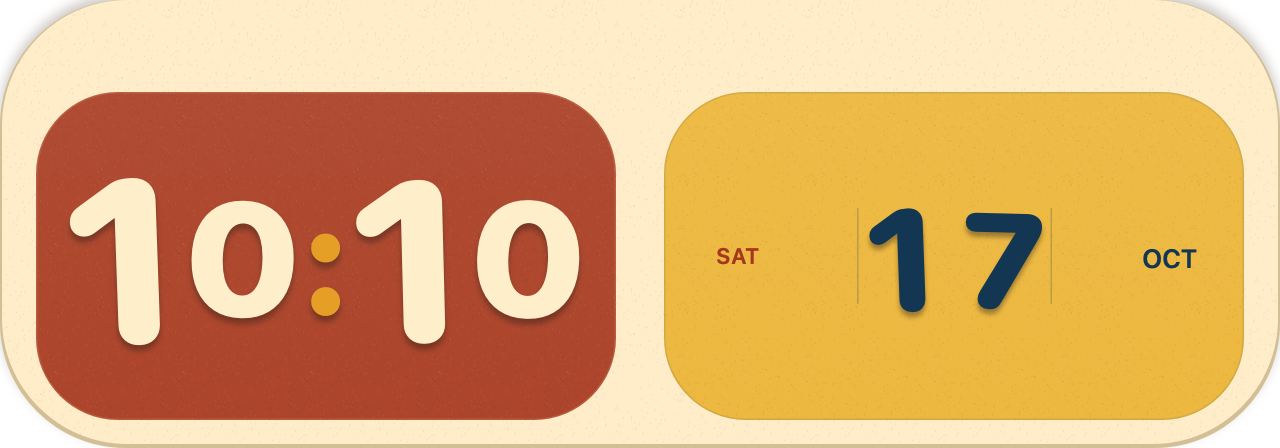
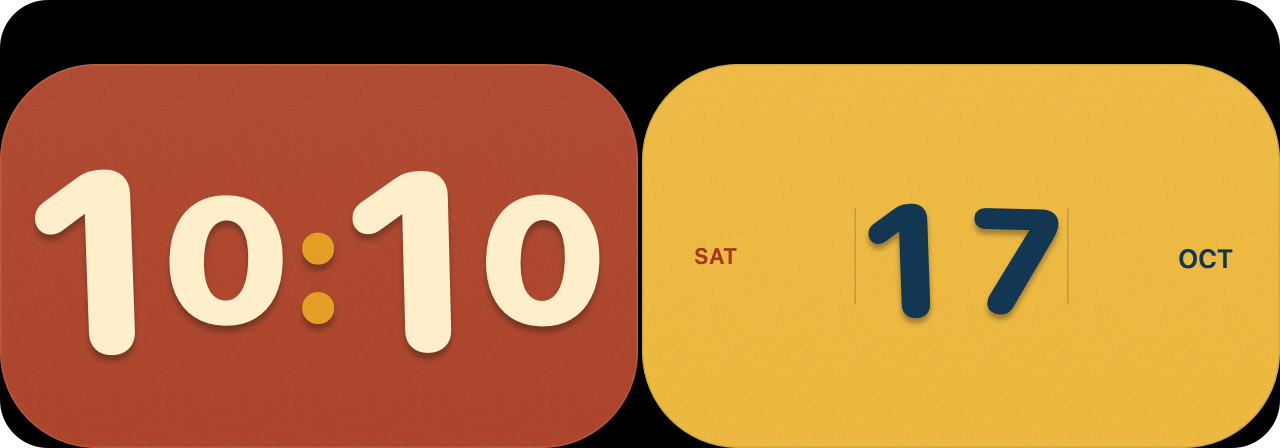
Fix: Fill Paper Cut sides on a black bar background
Remove the unwanted cream surround so component faces occupy their full sides while the notch bridge and bar background remain black.

Key changes include:

- Remove shared-frame component insets and expand faces to their side boundaries.
- Keep bar backgrounds black across themes and align the shared hover outline.
- Update the Paper Cut palette, settings preview, manifest, and native previews.
- Preserve unified hover morphing and the measured camera exclusion band.

diff --git a/Sources/NotchClock/ClockContentView.swift b/Sources/NotchClock/ClockContentView.swift
@@ -128,8 +128,9 @@ final class ClockContentView: NSView {
         let right = NSRect(x: bounds.midX + notchGap / 2 + 2, y: 0, width: 108, height: barHeight)
         let scale = min(1, bounds.width / 640)
         if palette.isPaperCut {
-            clock.frame = mix(left, NSRect(x: 8 * scale, y: barHeight, width: 310 * scale, height: 192), progress)
-            widget.frame = mix(right, NSRect(x: 322 * scale, y: barHeight, width: 310 * scale, height: 192), progress)
+            let compactRight = NSRect(x: bounds.midX + notchGap / 2, y: 0, width: 110, height: barHeight)
+            clock.frame = mix(left, NSRect(x: 0, y: barHeight, width: bounds.width / 2 - 1, height: 192), progress)
+            widget.frame = mix(compactRight, NSRect(x: bounds.midX + 1, y: barHeight, width: bounds.width / 2 - 1, height: 192), progress)
             return
         }
         clock.frame = mix(left, NSRect(x: 32 * scale, y: barHeight + 42,
@@ -149,21 +150,23 @@ final class ClockContentView: NSView {
         if point.y < barHeight && abs(point.x - bounds.midX) < notchGap / 2 { return false }
         if palette.isPaperCut {
             let frame = paperFrame
-            return NSBezierPath(roundedRect: frame, xRadius: frame.height * 0.28, yRadius: frame.height * 0.28).contains(point)
+            return NSBezierPath(roundedRect: frame, xRadius: mix(barHeight / 4, 24, progress), yRadius: mix(barHeight / 4, 24, progress)).contains(point)
         }
         return bounds.contains(point)
     }
 
     override func draw(_ dirtyRect: NSRect) {
         if palette.isPaperCut {
-            drawPaperFrame(in: paperFrame, progress: progress)
+            NSColor.black.setFill()
+            let frame = paperFrame
+            NSBezierPath(roundedRect: frame, xRadius: mix(barHeight / 4, 24, progress), yRadius: mix(barHeight / 4, 24, progress)).fill()
             return
         }
         let radius = min(mix(barHeight / 2, 26, progress), bounds.height / 2)
         // Grow the shell from the notch bridge while the two objects move out into the desk.
         let shell = NSRect(x: mix(bounds.midX - notchGap / 2, 0, progress), y: 0,
                            width: mix(notchGap + 112, bounds.width, progress), height: bounds.height)
-        palette.shell.setFill()
+        NSColor.black.setFill()
         NSBezierPath(roundedRect: shell, xRadius: radius, yRadius: radius).fill()
         NSRect(x: shell.minX, y: 0, width: shell.width, height: min(barHeight, shell.height)).fill()
         drawText("OBJECTS OF TIME", at: NSRect(x: 32, y: barHeight + 14, width: 170, height: 15),

diff --git a/Sources/NotchClock/ThemeDesign.swift b/Sources/NotchClock/ThemeDesign.swift
@@ -34,8 +34,8 @@ struct ThemeDesign: Codable, Equatable, Sendable {
                     text: "F0E1D0", muted: "C3A8BB", clockAccent: "88516E", widgetAccent: "956742"),
         ThemeDesign(id: "counter", name: "Counter objects", shell: "182124", surface: "EFE5CA", ink: "20292B",
                     text: "EFE5CA", muted: "A6AAA3", clockAccent: "C48B36", widgetAccent: "C48B36", family: .counter),
-        ThemeDesign(id: "paper-cut", name: "Paper Cut", shell: "EAE0CE", surface: "BC5938", ink: "FFF1D4",
-                    text: "453D32", muted: "8C7963", clockAccent: "EBAE32", widgetAccent: "EBAE32", family: .wavy,
+        ThemeDesign(id: "paper-cut", name: "Paper Cut", shell: "000000", surface: "BC5938", ink: "FFF1D4",
+                    text: "FFF1D4", muted: "B8A58B", clockAccent: "EBAE32", widgetAccent: "EBAE32", family: .wavy,
                     material: .paperCut, calendarColors: ComponentColors(surface: "F1C34F", ink: "164865"),
                     usageColors: ComponentColors(surface: "164865", ink: "FFF1D4"))
     ]

diff --git a/Sources/NotchClock/ThemeDrawing.swift b/Sources/NotchClock/ThemeDrawing.swift
@@ -79,11 +79,6 @@ private enum PaperGrain {
 }
 
 @MainActor
-func paperBody(in bounds: NSRect, progress: CGFloat) -> NSRect {
-    bounds.insetBy(dx: mix(0.5, 4, progress), dy: mix(0.5, 8, progress))
-}
-
-@MainActor
 func drawPaperFrame(in body: NSRect, progress: CGFloat) {
     let radius = body.height * 0.28
     NSGraphicsContext.saveGraphicsState()
@@ -108,7 +103,7 @@ func drawPaperFrame(in body: NSRect, progress: CGFloat) {
 @MainActor
 func drawPaperHousing(in body: NSRect, palette: ThemePalette, progress: CGFloat, sharedFrame: Bool = false) -> NSRect {
     if !sharedFrame { drawPaperFrame(in: body, progress: progress) }
-    let dial = body.insetBy(dx: mix(2.5, 6, progress), dy: mix(2.5, 6, progress))
+    let dial = sharedFrame ? body : body.insetBy(dx: mix(2.5, 6, progress), dy: mix(2.5, 6, progress))
     let radius = dial.height * 0.25
     let path = NSBezierPath(roundedRect: dial, xRadius: radius, yRadius: radius)
     let highlight = palette.surface.blended(withFraction: 0.04, of: .white) ?? palette.surface

diff --git a/Sources/NotchClock/DigitalClockView.swift b/Sources/NotchClock/DigitalClockView.swift
@@ -15,7 +15,7 @@ final class DigitalClockView: NotchItemView {
         formatter.timeZone = .current
         formatter.locale = Locale(identifier: "en_US_POSIX")
         formatter.dateFormat = uses24HourTime ? "HH:mm" : "hh:mm"
-        let body = palette.isPaperCut ? paperBody(in: bounds, progress: p) : mix(bounds.insetBy(dx: 0.5, dy: 0.5),
+        let body = palette.isPaperCut ? bounds : mix(bounds.insetBy(dx: 0.5, dy: 0.5),
                        NSRect(x: 5, y: bounds.height * 0.21, width: bounds.width - 10, height: bounds.height * 0.60), p)
         let dial = drawThemeHousing(in: body, palette: palette, accent: accent, progress: p, sharedFrame: sharesPaperFrame)
         let area = dial.insetBy(dx: mix(3, 14, p), dy: mix(2, palette.isPaperCut ? 20 : 32, p))

diff --git a/Sources/NotchClock/SettingsWindowController.swift b/Sources/NotchClock/SettingsWindowController.swift
@@ -15,7 +15,7 @@ final class ThemeSampleView: NSView {
         NSBezierPath(roundedRect: bounds, xRadius: 12, yRadius: 12).fill()
         if palette.isPaperCut {
             let dial = drawThemeHousing(in: NSRect(x: 16, y: 13, width: 98, height: 46),
-                                        palette: palette, accent: palette.clockAccent, progress: 1)
+                                        palette: palette, accent: palette.clockAccent, progress: 1, sharedFrame: true)
             drawThemeNumber("10:10", in: dial.insetBy(dx: 6, dy: 8), family: .wavy, palette: palette)
         } else {
             palette.clockAccent.setFill()

diff --git a/Sources/NotchClock/CompactClockView.swift b/Sources/NotchClock/CompactClockView.swift
@@ -17,7 +17,7 @@ final class CompactClockView: NotchItemView {
     override func draw(_ dirtyRect: NSRect) {
         guard let context = NSGraphicsContext.current?.cgContext else { return }
         let p = expansionProgress
-        let housing = palette.isPaperCut ? paperBody(in: bounds, progress: p) : bounds.insetBy(dx: mix(0.5, 6, p), dy: mix(0.5, 6, p))
+        let housing = palette.isPaperCut ? bounds : bounds.insetBy(dx: mix(0.5, 6, p), dy: mix(0.5, 6, p))
         guard housing.height > 4 else { return }
         let dial: NSRect
         let dialPath: NSBezierPath

diff --git a/Sources/NotchClock/WidgetDesign.swift b/Sources/NotchClock/WidgetDesign.swift
@@ -32,7 +32,7 @@ class WidgetSurfaceView: NotchItemView {
 
     // Keep the right-side objects on the digital clock's horizontal capsule baseline.
     var housingBody: NSRect {
-        if palette.isPaperCut { return paperBody(in: bounds, progress: expansionProgress) }
+        if palette.isPaperCut { return bounds }
         return mix(bounds.insetBy(dx: 0.5, dy: 0.5),
             NSRect(x: 5, y: bounds.height * 0.21, width: bounds.width - 10, height: bounds.height * 0.60),
             expansionProgress)

diff --git a/docs/THEME_PLUGINS.md b/docs/THEME_PLUGINS.md
@@ -44,9 +44,9 @@ Usage desk designs can additionally select `provider: "codex"` or `provider: "cl
 
 ## Paper Cut
 
-Choose **Originals · Paper Cut** under **Settings → Theme plugin**. The theme uses layered cream paper rims, a terracotta clock, butter-yellow calendar, and deep-blue provider desk. Chunky raised numerals use fixed glyph rotations and height variations, with yellow colon dots. Saturated matte faces and fine divider rules follow the Paper Cut concept.
+Choose **Originals · Paper Cut** under **Settings → Theme plugin**. The theme uses a black bar with full-side terracotta clock, butter-yellow calendar, and deep-blue provider faces. Chunky raised numerals use fixed glyph rotations and height variations, with yellow colon dots. Saturated matte faces and fine divider rules follow the Paper Cut concept.
 
-The native `paperCut` material renders paper grain from a single cached transparent tile, with one shadow on the shared frame and shadows on numeral layers. No downloaded textures, dependencies, or animation timers are added. Analog clocks share the paper housing while retaining their hands and markers.
+The native `paperCut` material renders paper grain from a single cached transparent tile, with shadows on numeral layers. No downloaded textures, dependencies, or animation timers are added. Analog clocks share the paper housing while retaining their hands and markers.
 
 Theme manifests may specify optional `material: "paperCut"`, `calendarColors: {"surface": "F1C34F", "ink": "164865"}`, and `usageColors: {"surface": "164865", "ink": "FFF1D4"}`. Component colors are validated as six-digit RGB values and fall back to the base palette when absent. Existing manifests retain their rendering. See [the installable Paper Cut example](../examples/paper-cut.clockpack.json).
 
@@ -58,4 +58,4 @@ Native previews use synthetic usage data:
 
 ![Paper Cut compact view](previews/paper-cut-compact.png)
 
-Paper Cut draws one continuous cream frame around the clock, notch bridge, and right-side insert. Individual inserts do not draw separate outer housings or floating shadows. One parent progress value drives the frame and both inserts, and one connected hover region controls expansion and collapse. The physical camera cutout remains excluded from hit testing. Expanded content starts below the measured menu-bar band; the window fits that band plus the 192-point paper body instead of retaining the older tall desk canvas. Transparent space outside the visible frame does not keep the app expanded. Theme changes immediately recalculate this window size.
+Paper Cut draws one continuous black background around the clock, notch bridge, and right-side insert. The colored faces fill their sides without outer cream rims or inset padding. Individual inserts do not draw separate outer housings or floating shadows. Bar backgrounds stay black across themes; component faces retain their theme colors. One parent progress value drives the frame and both inserts, and one connected hover region controls expansion and collapse. The physical camera cutout remains excluded from hit testing. Expanded content starts below the measured menu-bar band; the window fits that band plus the 192-point paper body instead of retaining the older tall desk canvas. Transparent space outside the visible frame does not keep the app expanded. Theme changes immediately recalculate this window size.
